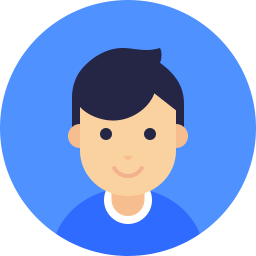
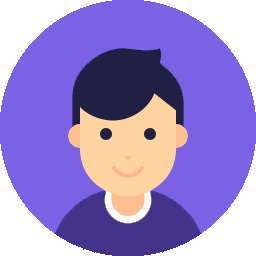
modo oscuro-claro
La web ya obtiene el estilo de preferencia del usuario y le aplica ese modo

diff --git a/css/style.css b/css/style.css
@@ -1,13 +1,14 @@
-@import url('https://fonts.googleapis.com/css2?family=Raleway:wght@100&family=Red+Hat+Mono&display=swap');
+@import url('https://fonts.googleapis.com/css2?family=Roboto:wght@300;400;700&display=swap');
 :root {
     --first-color: #1F1F1F;
     --second-color: #131313;
-    --first-color-light: white;
-    --color-header: #4F92FF;
+    --circle: #1C1C1C;
+    --first-color-contrast: white;
+    --color-header: #7462E0;
     --leter-first-color: white;
     --leter-second-color: black;
-    --tipografia-principal: 'Raleway', sans-serif;
-    --tipografia-secundaria: 'Red Hat Mono', monospace;
+    --tipografia-principal: 'Roboto', sans-serif;
+    ;
 }
 
 
@@ -270,7 +271,7 @@ header>h1 {
     bottom: -50%;
     width: 100%;
     height: 100%;
-    background-color: #1C1C1C;
+    background-color: var(--circle);
     border-radius: 50%;
     -webkit-border-radius: 50%;
     -moz-border-radius: 50%;
@@ -387,7 +388,7 @@ header>h1 {
     align-items: center;
     text-align: center;
     padding: .25rem;
-    border: 1px solid var(--first-color-light);
+    border: 1px solid var(--first-color-contrast);
     border-radius: 10px;
     -webkit-border-radius: 10px;
     -moz-border-radius: 10px;
@@ -419,7 +420,7 @@ header>h1 {
 }
 
 .grups {
-    border: 1px solid var(--first-color-light);
+    border: 1px solid var(--first-color-contrast);
     border-radius: 10px;
     -webkit-border-radius: 10px;
     -moz-border-radius: 10px;
@@ -487,7 +488,7 @@ form {
     text-align: center;
     width: 90%;
     max-width: 30rem;
-    border: 1px dashed var(--first-color-light);
+    border: 1px dashed var(--first-color-contrast);
     border-radius: 10px;
     -webkit-border-radius: 10px;
     -moz-border-radius: 10px;
@@ -504,13 +505,13 @@ form>p {
 input {
     font-size: 1.25rem;
     width: 80%;
-    color: var(--first-color-light);
+    color: var(--first-color-contrast);
     outline: none;
     background-color: transparent;
     border-top: 1px solid transparent;
     border-left: 1px solid transparent;
     border-right: 1px solid transparent;
-    border-bottom: 1px solid var(--first-color-light);
+    border-bottom: 1px solid var(--first-color-contrast);
     padding-top: 10px;
     margin-bottom: 1rem;
     transition: 0.4s border;
@@ -521,17 +522,17 @@ textarea {
     resize: vertical;
     outline: none;
     background-color: transparent;
-    border: 1px solid var(--first-color-light);
+    border: 1px solid var(--first-color-contrast);
     min-height: 60px;
     max-height: 300px;
-    color: var(--first-color-light);
+    color: var(--first-color-contrast);
 }
 
 input:focus,
 input:hover,
 textarea:hover,
 textarea:focus {
-    border: 1px dashed var(--first-color-light);
+    border: 1px dashed var(--first-color-contrast);
 }
 
 
@@ -596,5 +597,17 @@ textarea:focus {
     #places,
     #qualification {
         width: 45%;
+    }
+}
+
+@media (prefers-color-scheme: light) {
+     :root {
+        --first-color: white;
+        --second-color: #EEE;
+        --circle: #ccc;
+        --first-color-contrast: black;
+        --leter-first-color: black;
+        --leter-second-color: white;
+        --tipografia-principal: 'Raleway', sans-serif;
     }
 }

diff --git a/index.html b/index.html
@@ -39,7 +39,7 @@
                     <a href="https://www.instagram.com/amfchair/"><i class="fa-brands fa-instagram instagram"></i></a>
                 </div>
             </div>
-            <img id="user-logo" src="./img/user.png" alt="">
+            <img id="user-logo" src="./img/user.png" alt="user">
             <div id="circle-banner">
         </section>
 
